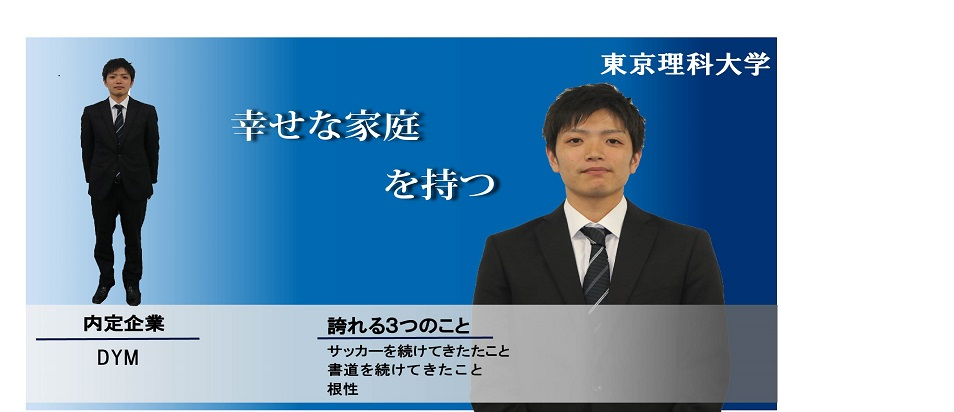
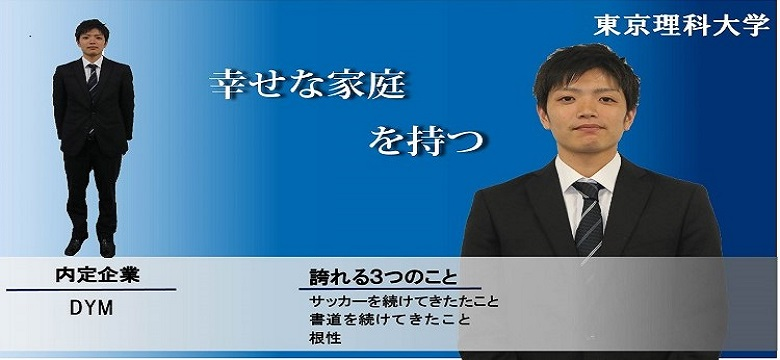
a

diff --git a/sato.html b/sato.html
@@ -55,7 +55,7 @@
     </nav>
 
     <!-- Page Header -->
-    <header class="masthead" style="background-image: url('img/home.jpg')"> <!-- ヘッダーの背景を消して左右に画像を張りその真ん中にそれぞれ文章を書きたい  -->
+    <header class="masthead" style="background-image: url('img/sato.jpg')"> <!-- ヘッダーの背景を消して左右に画像を張りその真ん中にそれぞれ文章を書きたい  -->
       <div class="container">
         <div class="row">
           <div class="col-md-6">
